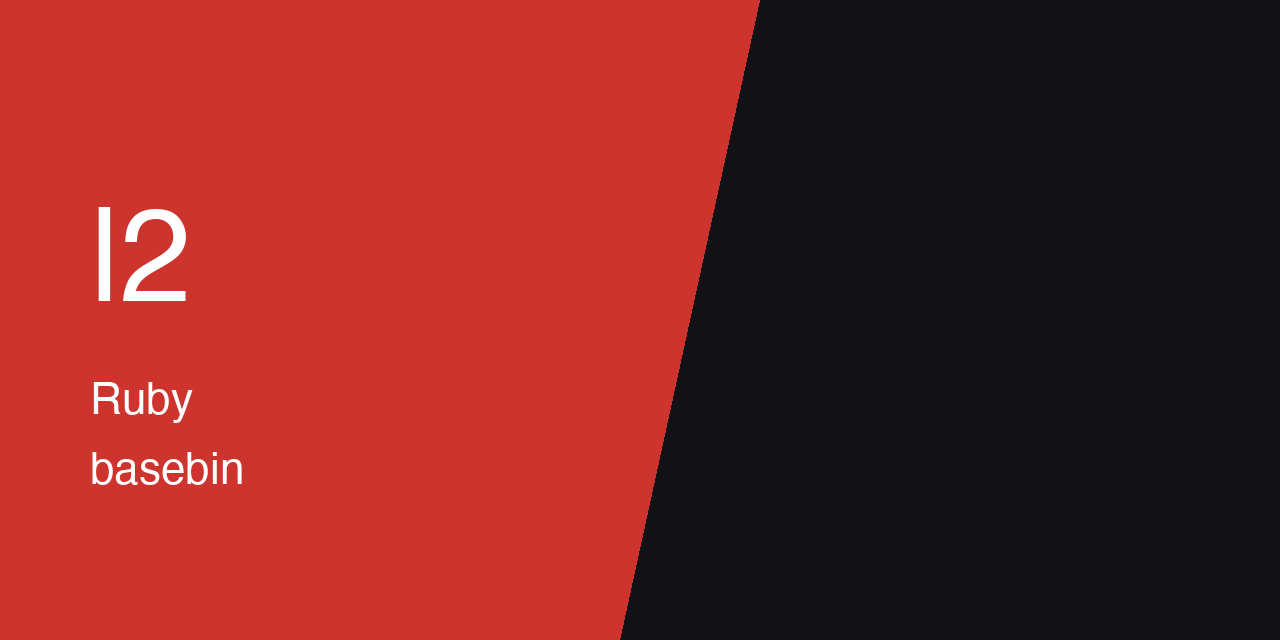
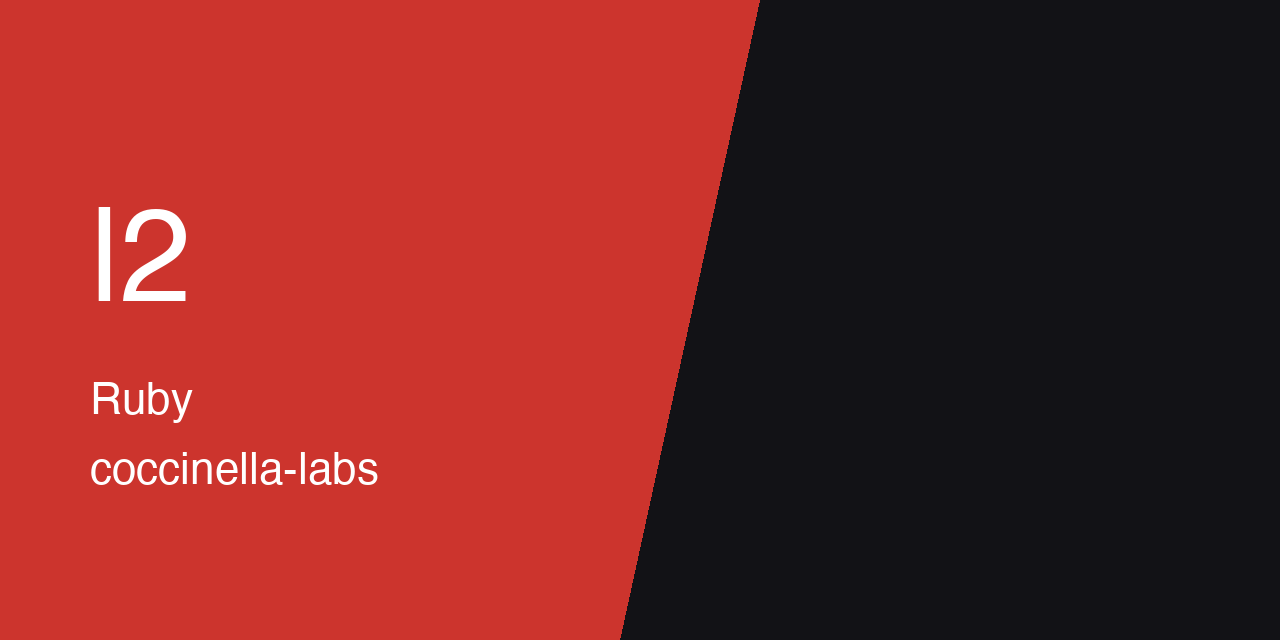
[docs] move thumbnail to coccinella-labs

Changed region(s): [[0.0625, 0.7188, 0.3125, 0.7812]]

diff --git a/README.md b/README.md
@@ -1,5 +1,5 @@
 <p align="center">
-  <img src="https://raw.githubusercontent.com/basebin/l2/main/.github/assets/thumbnail.png" alt="l2" width="100%">
+  <img src="https://raw.githubusercontent.com/Coccinella-Labs/l2/main/.github/assets/thumbnail.png" alt="l2" width="100%">
 </p>
 
 # Friday Gemini AI
